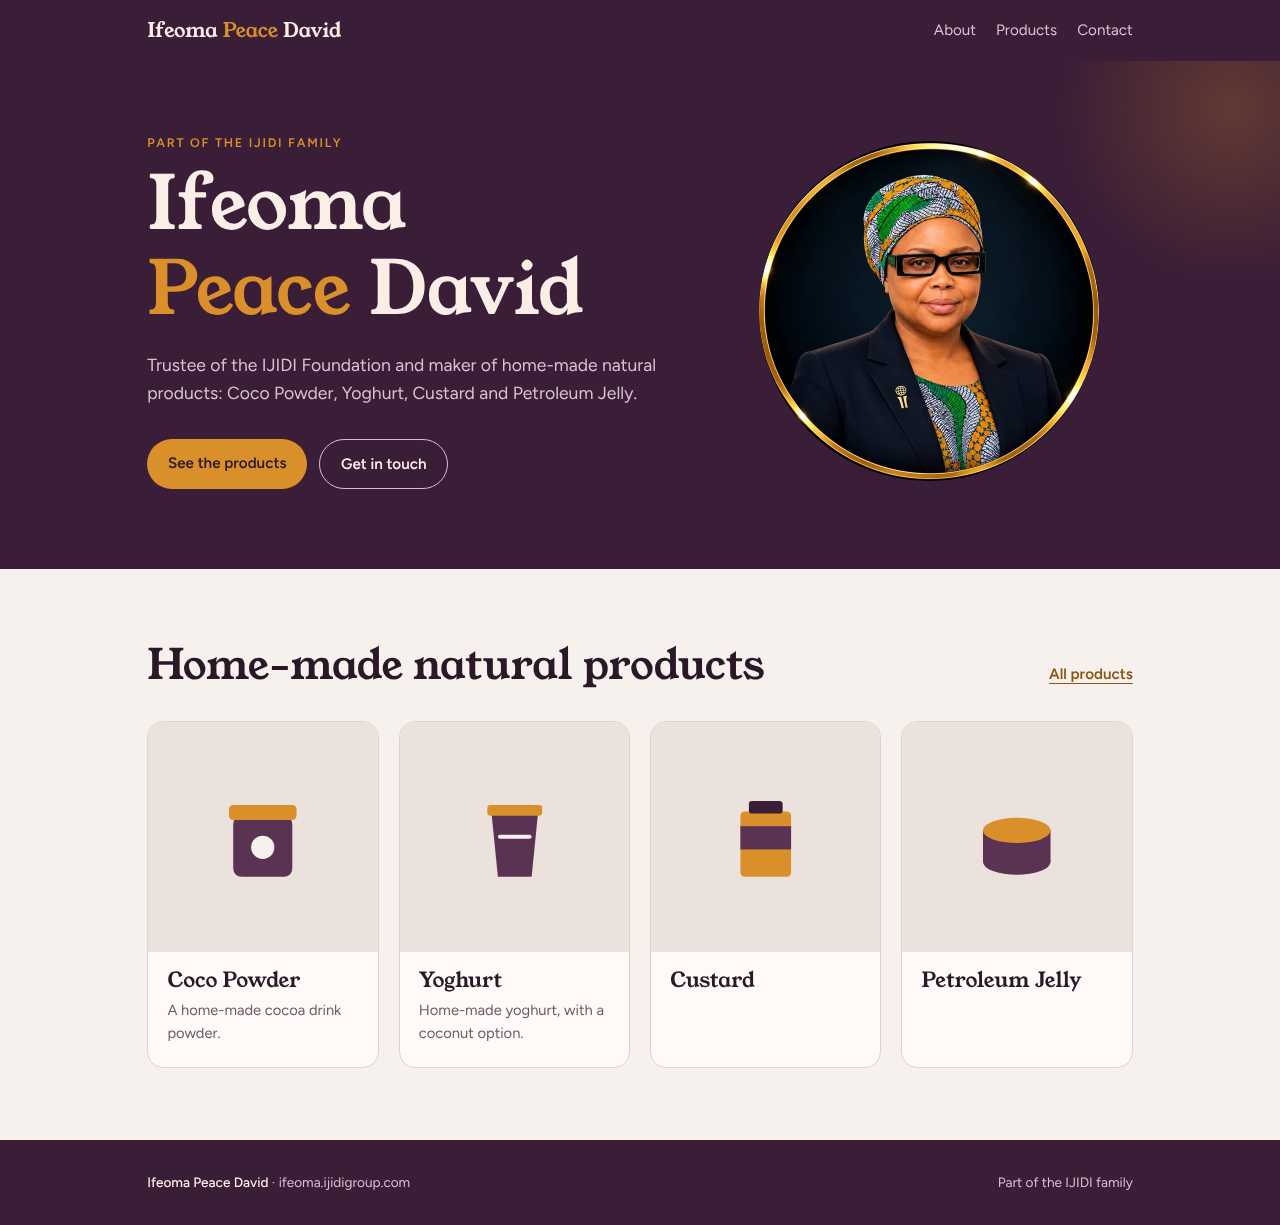
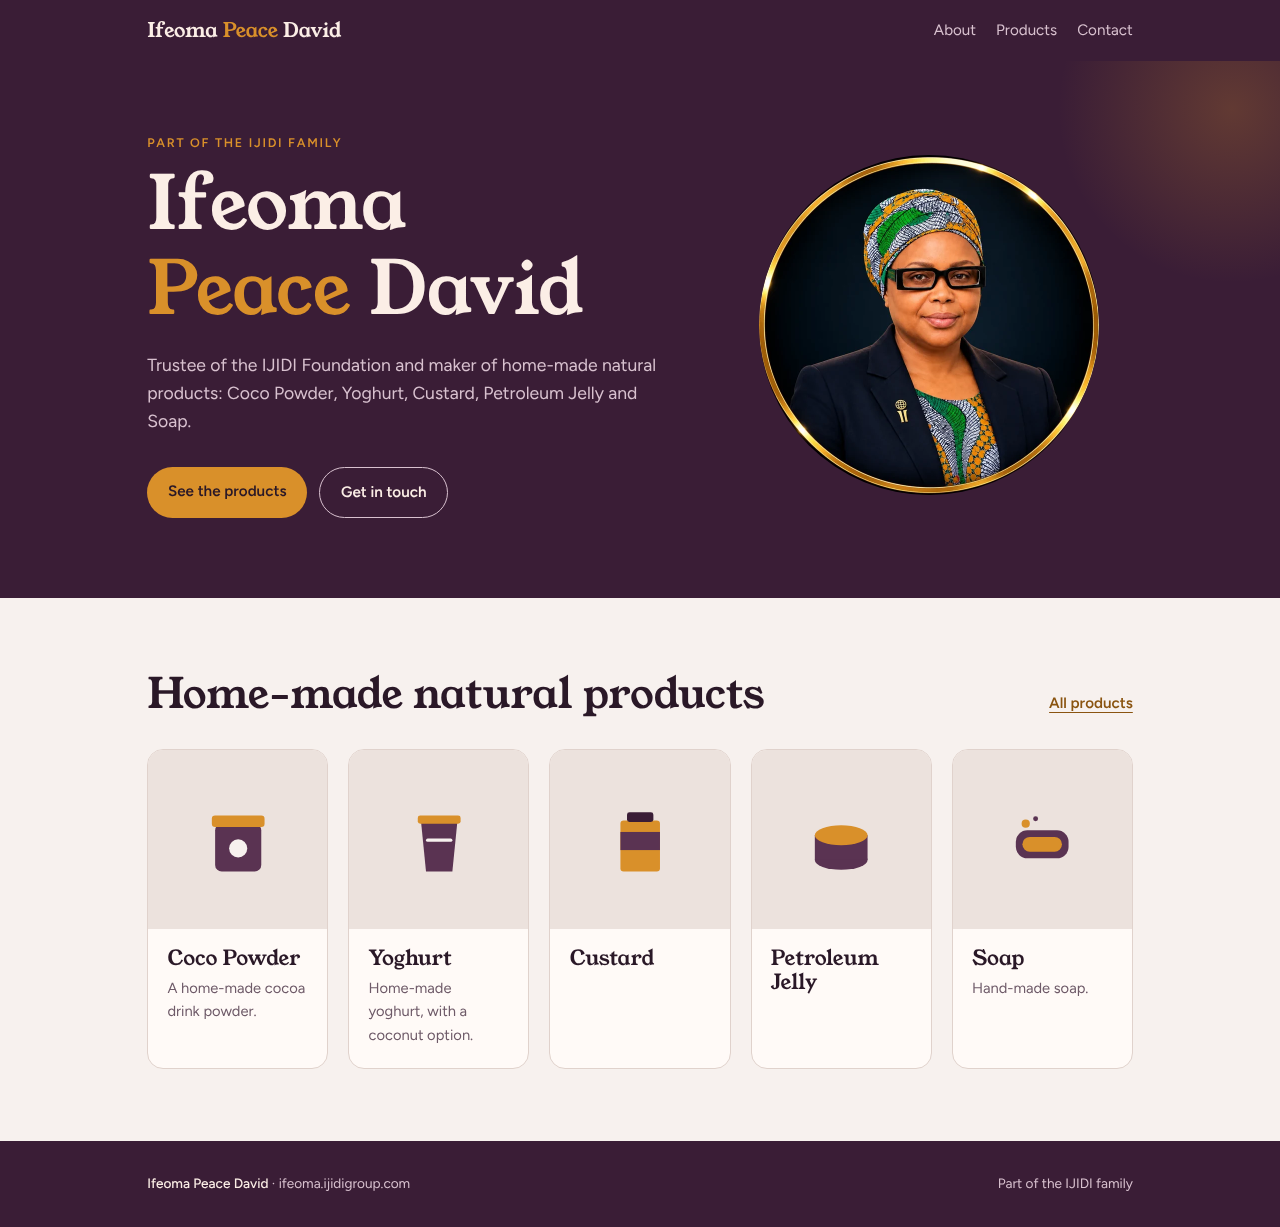
Add hand-made soap as a fifth product
Adds Soap ("Hand-made soap.") with a soap-bar illustration. The
shelf is now five across on desktop, three on small laptops, two on
tablets and one on phones. Hero line and products meta description
pick up the new product.

Claude-Session: https://claude.ai/code/session_01JR5joPnqPxFUZjK7t2UKEn

diff --git a/src/main.js b/src/main.js
@@ -28,6 +28,7 @@ const shapes = {
   tin: '<rect x="22" y="30" width="56" height="58" rx="8" fill="var(--plum-soft)"/><rect x="18" y="20" width="64" height="14" rx="4" fill="var(--marigold)"/><circle cx="50" cy="60" r="11" fill="var(--shell)"/>',
   cup: '<path d="M28 28h44l-6 60H34z" fill="var(--plum-soft)"/><rect x="24" y="20" width="52" height="10" rx="3" fill="var(--marigold)"/><path d="M36 50h28" stroke="var(--shell)" stroke-width="4" stroke-linecap="round"/>',
   box: '<rect x="26" y="26" width="48" height="62" rx="4" fill="var(--marigold)"/><rect x="26" y="40" width="48" height="22" fill="var(--plum-soft)"/><rect x="34" y="16" width="32" height="12" rx="3" fill="var(--plum)"/>',
+  bar: '<rect x="18" y="38" width="64" height="34" rx="14" fill="var(--plum-soft)"/><rect x="26" y="46" width="48" height="18" rx="9" fill="var(--marigold)"/><circle cx="30" cy="30" r="5" fill="var(--marigold)"/><circle cx="42" cy="24" r="3" fill="var(--plum-soft)"/>',
   tub: '<ellipse cx="50" cy="74" rx="32" ry="12" fill="var(--plum-soft)"/><rect x="18" y="44" width="64" height="30" fill="var(--plum-soft)"/><ellipse cx="50" cy="44" rx="32" ry="12" fill="var(--marigold)"/>',
 }
 

diff --git a/src/style.css b/src/style.css
@@ -94,7 +94,7 @@ section.page.first { padding-top: 3.5rem; }
 .todo b { font-weight: 600; }
 
 .intro { color: var(--muted); font-size: 1.1rem; max-width: 40rem; margin: -0.8rem 0 2.2rem; }
-.shelf { display: grid; grid-template-columns: repeat(4, 1fr); gap: 1.25rem; }
+.shelf { display: grid; grid-template-columns: repeat(5, 1fr); gap: 1.25rem; }
 .product { background: var(--card); border: 1px solid var(--line); border-radius: 1rem; overflow: hidden; display: flex; flex-direction: column; min-width: 0; }
 .product .art { aspect-ratio: 1; background: var(--shell-sunk); display: grid; place-items: center; }
 .product .art svg { width: 46%; height: auto; }
@@ -119,6 +119,7 @@ footer { background: var(--hero-bg); color: var(--hero-muted); font-size: 0.85re
 footer .wrap { padding-block: 2rem; display: flex; justify-content: space-between; gap: 1rem; flex-wrap: wrap; }
 footer b { color: var(--hero-ink); font-weight: 500; }
 
+@media (max-width: 1000px) { .shelf { grid-template-columns: repeat(3, 1fr); } }
 @media (max-width: 860px) {
   .shelf { grid-template-columns: repeat(2, 1fr); }
   .hero .wrap, .about, .contact { grid-template-columns: 1fr; }

diff --git a/products/index.html b/products/index.html
@@ -4,7 +4,7 @@
     <meta charset="UTF-8" />
     <meta name="viewport" content="width=device-width, initial-scale=1.0" />
     <title>Products · Ifeoma Peace David</title>
-    <meta name="description" content="Home-made natural products: Coco Powder, Yoghurt, Custard and Petroleum Jelly." />
+    <meta name="description" content="Home-made natural products: Coco Powder, Yoghurt, Custard, Petroleum Jelly and Soap." />
     <link rel="icon" href="/favicon-32.png" type="image/png" sizes="32x32" />
     <link rel="apple-touch-icon" href="/apple-touch-icon.png" sizes="180x180" />
     <link rel="preconnect" href="https://fonts.googleapis.com" />

diff --git a/src/content.js b/src/content.js
@@ -25,6 +25,7 @@ export const products = [
   { id: 'yoghurt', name: 'Yoghurt', category: null, description: 'Home-made yoghurt, with a coconut option.', image: null, shape: 'cup' },
   { id: 'custard', name: 'Custard', category: null, description: null, image: null, shape: 'box' },
   { id: 'petroleum-jelly', name: 'Petroleum Jelly', category: null, description: null, image: null, shape: 'tub' },
+  { id: 'soap', name: 'Soap', category: null, description: 'Hand-made soap.', image: null, shape: 'bar' },
 ]
 
 export const contact = {

diff --git a/PLAN.md b/PLAN.md
@@ -7,7 +7,7 @@ from `src/content.js`. Deployed on Vercel at `ifeoma.ijidigroup.com`.
 |--------------|-------------------------|-------------------------------------------------------------------------|
 | `/`          | `index.html`            | Hero: name, IJIDI Foundation trustee, home-made natural products. Product preview. |
 | `/about/`    | `about/index.html`      | Role card: Trustee, IJIDI Foundation. Bio (hidden until supplied).      |
-| `/products/` | `products/index.html`   | "Home-made natural products": Coco Powder, Yoghurt, Custard, Petroleum Jelly. |
+| `/products/` | `products/index.html`   | "Home-made natural products": Coco Powder, Yoghurt, Custard, Petroleum Jelly, Soap. |
 | `/contact/`  | `contact/index.html`    | Email (mailto), Instagram, TikTok. Each row only if a value exists.    |
 
 ## Still needed from Ifeoma (hidden until supplied)
@@ -16,7 +16,8 @@ from `src/content.js`. Deployed on Vercel at `ifeoma.ijidigroup.com`.
 - [ ] Bio, in her own words
 - [x] Portrait photo
 - [x] Coco Powder: cocoa (drink powder)
-- [ ] One plain description for Yoghurt, Custard and Petroleum Jelly
+- [x] Yoghurt and Soap descriptions
+- [ ] One plain description for Custard and Petroleum Jelly
 - [ ] Product photos
 - [x] Email address
 - [ ] Instagram handle

diff --git a/DESIGN.md b/DESIGN.md
@@ -34,7 +34,7 @@ Dark mode follows the visitor's system setting.
 
 - Single column, max width 68rem, side gutter at least 16px.
 - Plum hero with a soft marigold glow in one corner; circular portrait (the photo carries its own gold ring).
-- Products as a four-up shelf, two-up on tablets, one-up on phones.
+- Products as a five-up shelf, three-up on small laptops, two-up on tablets, one-up on phones.
 - One motion moment: hero text rises in on load. Disabled under `prefers-reduced-motion`.
 
 ## Content rules
